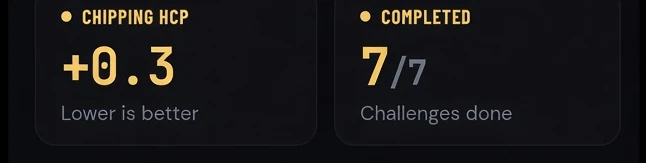
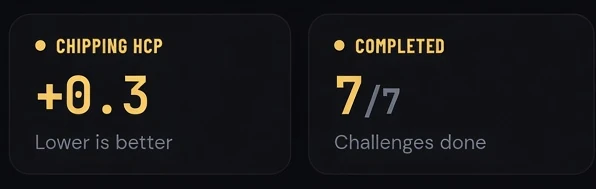
Crop the magnified callouts to whole cards
The callouts were arbitrary slices. The home one carried a black margin plus
the rounded top edge of the next card down, and the challenges one cut both
cards off at the top and clipped the right card at the frame edge, so each
read as a ragged chunk of screen rather than a magnified feature.

Both are now cropped to the card bounds with the app's own padding left
intact all the way round, so no element is cut and the corners stay whole.
The placement percentages were recomputed from the new crop bounds so each
callout still sits centred on the row it magnifies.

diff --git a/index.html b/index.html
@@ -1054,7 +1054,7 @@
                              width="736" height="1521" loading="lazy" decoding="async">
                         <img class="pf-zoom nx-zoom--home" src="app-screens/detail/home-zoom-stats.webp"
                              alt="Putting minus 1.9, two drills a week, a one day streak"
-                             width="685" height="158" loading="lazy" decoding="async">
+                             width="634" height="137" loading="lazy" decoding="async">
                     </div>
                     <div class="pf-device nx-device--b">
                         <img class="pf-phone" src="app-screens/detail/challenges-phone.webp"
@@ -1062,7 +1062,7 @@
                              width="695" height="1456" loading="lazy" decoding="async">
                         <img class="pf-zoom nx-zoom--chal" src="app-screens/detail/challenges-zoom-hcp.webp"
                              alt="Chipping handicap plus 0.3, seven of seven challenges done"
-                             width="646" height="163" loading="lazy" decoding="async">
+                             width="596" height="189" loading="lazy" decoding="async">
                     </div>
                 </div>
 

diff --git a/css/home.css b/css/home.css
@@ -1857,8 +1857,8 @@ html.hp-js .hp-chips[data-hud] .hp-chip-reward.visible { opacity: 1; }
 
 /* Centred on the row each one enlarges, ~1.16x, bleeding left past the bezel
    and stopping at the opposite edge so neither runs into the other phone. */
-.nx-zoom--home { left: -8%; top: 76.4%; width: 108%; }
-.nx-zoom--chal { left: -8%; top: 26.9%; width: 108%; }
+.nx-zoom--home { left: -8%; top: 76.6%; width: 108%; }
+.nx-zoom--chal { left: -8%; top: 24.4%; width: 108%; }
 
 .nx-actions { display: flex; flex-wrap: wrap; align-items: center; gap: 14px; margin: 0 0 16px; }
 .nx-btn-alt {
